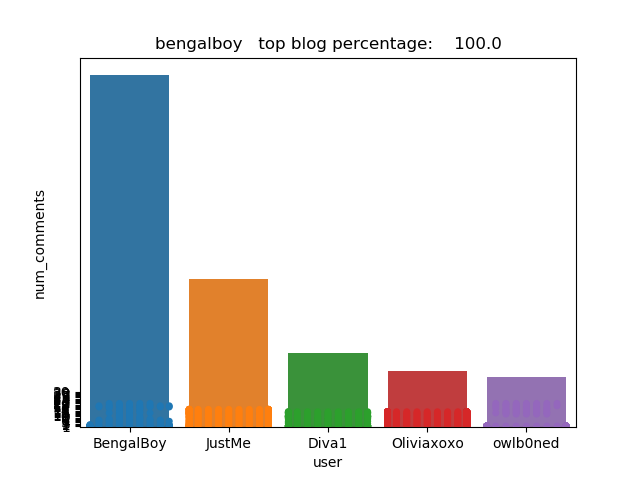
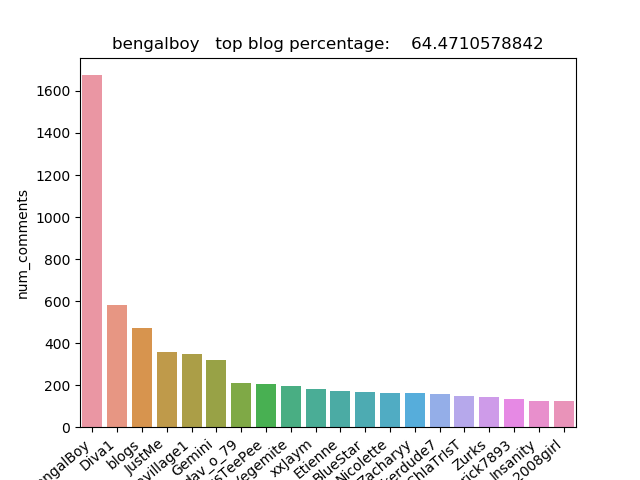
gift_Data update

Changed region(s): [[0.0312, 0.1562, 0.9062, 1.0], [0.1875, 0.0625, 0.8438, 0.125], [0.0625, 0.9688, 0.0938, 1.0]]

diff --git a/python/scrape.py b/python/scrape.py
@@ -3,8 +3,9 @@ import re
 from bs4 import BeautifulSoup
 import pandas as pd
 import seaborn as sns
-import matplotlib as mpl
+import numpy as np
 import matplotlib.pyplot as plt
+
 
 def download(url, user_agent='wswp', num_retries=2):
     print 'Downloading:', url
@@ -21,13 +22,14 @@ def download(url, user_agent='wswp', num_retries=2):
                 return download(url, user_agent, num_retries - 1)
     return html
 
-def gameplot(user = 'alireza1373'):
+
+def gameplot(user='alireza1373'):
     html = download('https://tengaged.com/user/' + user)
     karma, rank = re.findall('<span class="remark">(.*?)</span>', html)[0:2]
 
     soup = BeautifulSoup(html, 'html.parser')
     karma = soup.find(attrs={'class': 'remark'}).text
- #  rank = soup.find(attrs={'class': 'miniadrank'}).text
+    #  rank = soup.find(attrs={'class': 'miniadrank'}).text
     games_played_default = soup.findAll(attrs={'class': 'remark'})[1].text;
     game_pages = int(soup.findAll(attrs={'class': 'page'})[3].text);
     last_activity = soup.findAll(attrs={'class': 'remark'})[2].text;
@@ -35,7 +37,8 @@ def gameplot(user = 'alireza1373'):
     allgames = pd.DataFrame(columns=['type', 'placing'])
 
     for i in range(1, game_pages + 1):
-        html = download('http://tengaged.com/user/' + user + '/ajax/search.json?action=loadGames&p=' + str(i) + '&uid=' + user)
+        html = download(
+            'http://tengaged.com/user/' + user + '/post/search.json?action=loadGames&p=' + str(i) + '&uid=' + user)
         soup = BeautifulSoup(html, 'html.parser')
         games_in_page = soup.findAll(attrs={'class': 'game'})
         for agame in games_in_page:
@@ -65,20 +68,21 @@ def gameplot(user = 'alireza1373'):
                 allgames = allgames.append({'type': 'stars', 'placing': int(placing)}, ignore_index=True)
 
     realgames = allgames.__len__()
-    lm = sns.swarmplot(allgames.type, allgames.placing.astype(int), order = ['casting','fasting','rookies','frooks', 'survivor', 'hunger','stars']).set_title(user)
+    lm = sns.swarmplot(allgames.type, allgames.placing.astype(int),
+                       order=['casting', 'fasting', 'rookies', 'frooks', 'survivor', 'hunger', 'stars']).set_title(user)
     axes = lm.axes
     axes.set_yticks(range(1, 31))
-    #plt.savefig(lm, format=format)
+    # plt.savefig(lm, format=format)
     plt.savefig('game_data/' + user)
-    #plt.show()
+    # plt.show()
 
 
-def blogplot(user = 'ak73'):
+def blogplot(user='ak73'):
     html = download('https://tengaged.com/blog/' + user)
     blogs_text = re.findall('<span class="info">(.*?)</span>', html)
     numblogs = filter(str.isdigit, blogs_text.__str__())
     soup = BeautifulSoup(html, 'html.parser')
-    num_pages =  (int(numblogs) / 6) + 1
+    num_pages = (int(numblogs) / 6) + 1
     page_blogs = soup.find(attrs={'class': 'blogPosts'})
     comments_db = pd.DataFrame(columns=['user', 'num_comments'])
     top_blog = 0
@@ -101,44 +105,78 @@ def blogplot(user = 'ak73'):
                 cuser = tail.find('a').text.__str__()
                 if cuser in list(comments_db.user):
                     index = comments_db.user[(comments_db.user == cuser)].index[0]
-                    current_count =comments_db.iloc[index].num_comments
-                    comments_db.set_value(index, 'num_comments', current_count+1)
+                    current_count = comments_db.iloc[index].num_comments
+                    comments_db.set_value(index, 'num_comments', current_count + 1)
                 else:
                     comments_db = comments_db.append({'user': cuser, 'num_comments': 1}, ignore_index=True)
 
-    for i in range(2,min(num_pages+1, 20)):
-            link = 'https://tengaged.com/blog/' + user + '/page/' + str(i)
-            html = download(link)
-            soup = BeautifulSoup(html)
+    for i in range(2, min(num_pages + 1, 2000)):
+        link = 'https://tengaged.com/blog/' + user + '/page/' + str(i)
+        html = download(link)
+        soup = BeautifulSoup(html)
 
-            page_blogs = soup.find(attrs={'class': 'blogPosts'})
-            blogs = page_blogs.findAll('a')
+        page_blogs = soup.find(attrs={'class': 'blogPosts'})
+        blogs = page_blogs.findAll('a')
 
-            for blog in blogs:
-                if blog.has_attr('rel') and blog.attrs['rel'] and blog.attrs['rel'][0].startswith('bookmark'):
-                    blog_link = 'https://tengaged.com' + blog.attrs['href'].__str__()
-                    blog_html = download(blog_link)
-                    soup = BeautifulSoup(blog_html)
+        for blog in blogs:
+            if blog.has_attr('rel') and blog.attrs['rel'] and blog.attrs['rel'][0].startswith('bookmark'):
+                blog_link = 'https://tengaged.com' + blog.attrs['href'].__str__()
+                blog_html = download(blog_link)
+                soup = BeautifulSoup(blog_html)
 
-                    if re.findall('<span class="floated miniadrank">(.*?)</span>', blog_html):
-                        top_blog += 1
+                if re.findall('<span class="floated miniadrank">(.*?)</span>', blog_html):
+                    top_blog += 1
 
-                    comments = soup.findAll(attrs={'blogPostComments'})
+                comments = soup.findAll(attrs={'blogPostComments'})
 
-                    for comment in comments:
-                        tail = comment.find(attrs={'class': 'tail'})
-                        cuser = tail.find('a').text.__str__()
-                        if cuser in list(comments_db.user):
-                            index = comments_db.user[(comments_db.user == cuser)].index[0]
-                            current_count = comments_db.iloc[index].num_comments
-                            comments_db.set_value(index, 'num_comments', current_count + 1)
-                        else:
-                            comments_db = comments_db.append({'user': cuser, 'num_comments': 1}, ignore_index=True)
+                for comment in comments:
+                    tail = comment.find(attrs={'class': 'tail'})
+                    cuser = tail.find('a').text.__str__()
+                    if cuser in list(comments_db.user):
+                        index = comments_db.user[(comments_db.user == cuser)].index[0]
+                        current_count = comments_db.iloc[index].num_comments
+                        comments_db.set_value(index, 'num_comments', current_count + 1)
+                    else:
+                        comments_db = comments_db.append({'user': cuser, 'num_comments': 1}, ignore_index=True)
     comments_db.num_comments = comments_db.num_comments.astype(int)
-    top10 = (comments_db.nlargest(10, 'num_comments'))
-    top_blog_percentage = 100 * (float(top_blog) / (i*6))
-    a = sns.barplot(top10.user, top10.num_comments).set_title(user + '   top blog percentage:    '  + str(top_blog_percentage))
+    top10 = (comments_db.nlargest(20, 'num_comments'))
+    top_blog_percentage = 100 * (float(top_blog) / (i * 6))
+    a = sns.barplot(top10.user, top10.num_comments).set_title(
+        user + '   top blog percentage:    ' + str(top_blog_percentage))
+    b = a.axes
+    b.set_xticklabels(b.get_xticklabels(), rotation=40, ha="right")
     plt.savefig('blog_data/' + user)
 
-gameplot('Philip13')
-#logplot('bengalboy')
+
+def giftplot(user='ak73'):
+    html = download('https://tengaged.com/gifts/' + user)
+    num_gifts = re.findall('<span class="remark">(.*?)</span>', html)[0]
+    num_pages = np.ceil(float(num_gifts) / 15)
+    soup = BeautifulSoup(html, 'html.parser')
+    gifts_db = pd.DataFrame(columns=['user', 'num_gifts'])
+
+    for i in range(1, int(num_pages) + 1):
+        html = download(
+            'http://tengaged.com/gifts/' + user + '/ajax/search.json?action=loadGifts&p=2')
+        soup = BeautifulSoup(html, 'html.parser')
+        gifts = soup.findAll(attrs={'class': 'gifts imgMsgList big'})[0]
+        gifters = gifts.findAll(attrs={'class': 'message'})
+        for gifter in gifters:
+            cuser = gifter.find_all('a')[0].text.__str__()
+            if cuser in list(gifts_db.user):
+                index = gifts_db.user[(gifts_db.user == cuser)].index[0]
+                current_count = gifts_db.iloc[index].num_gifts
+                gifts_db.set_value(index, 'num_gifts', current_count + 1)
+            else:
+                gifts_db = gifts_db.append({'user': cuser, 'num_gifts': 1}, ignore_index=True)
+
+    gifts_db.num_gifts = gifts_db.num_gifts.astype(int)
+    top10 = (gifts_db.nlargest(10, 'num_gifts'))
+    a = sns.barplot(top10.user, top10.num_gifts).set_title(user)
+    b = a.axes
+    b.set_xticklabels(b.get_xticklabels(), rotation=40, ha="right")
+    plt.savefig('gift_data/' + user)
+
+#gameplot('Arris')
+blogplot('lemonface')
+#giftplot('lemonface')
